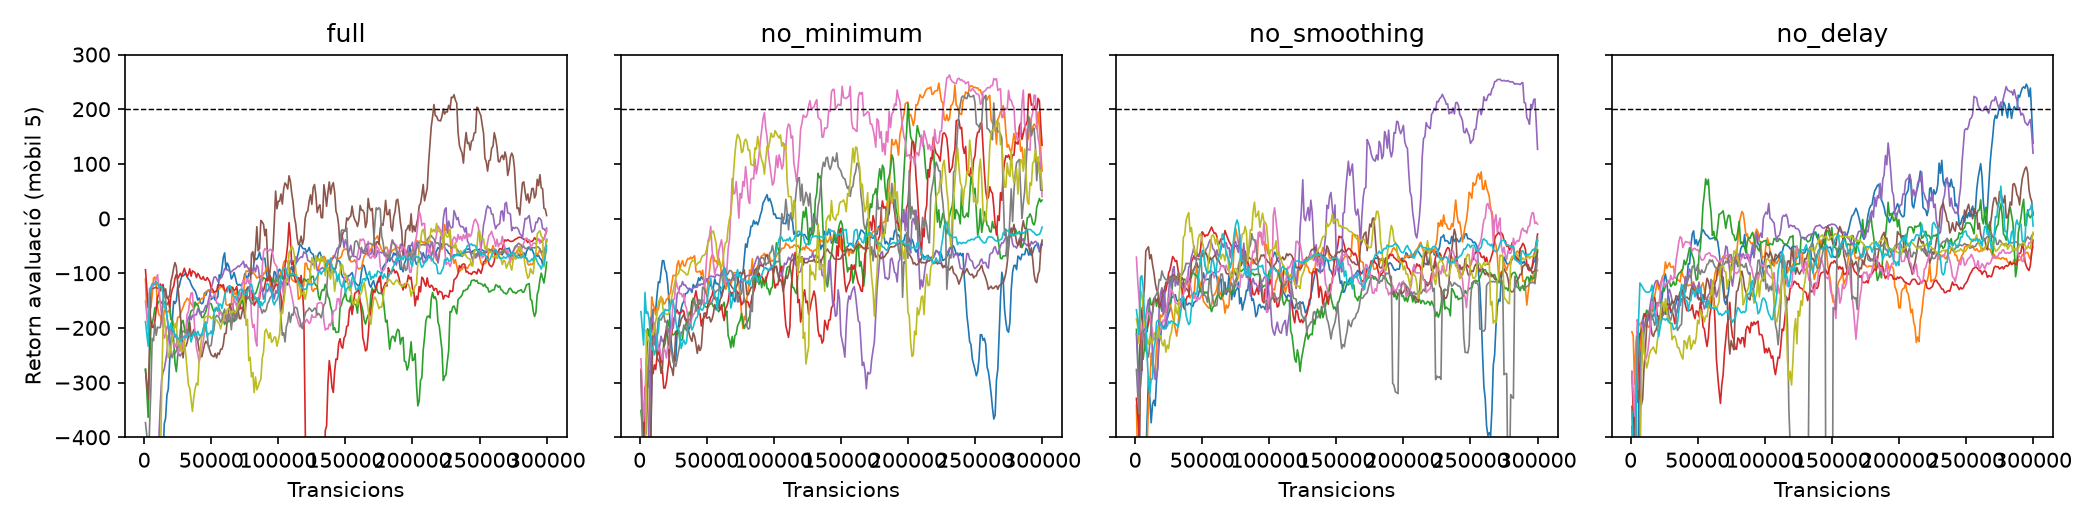
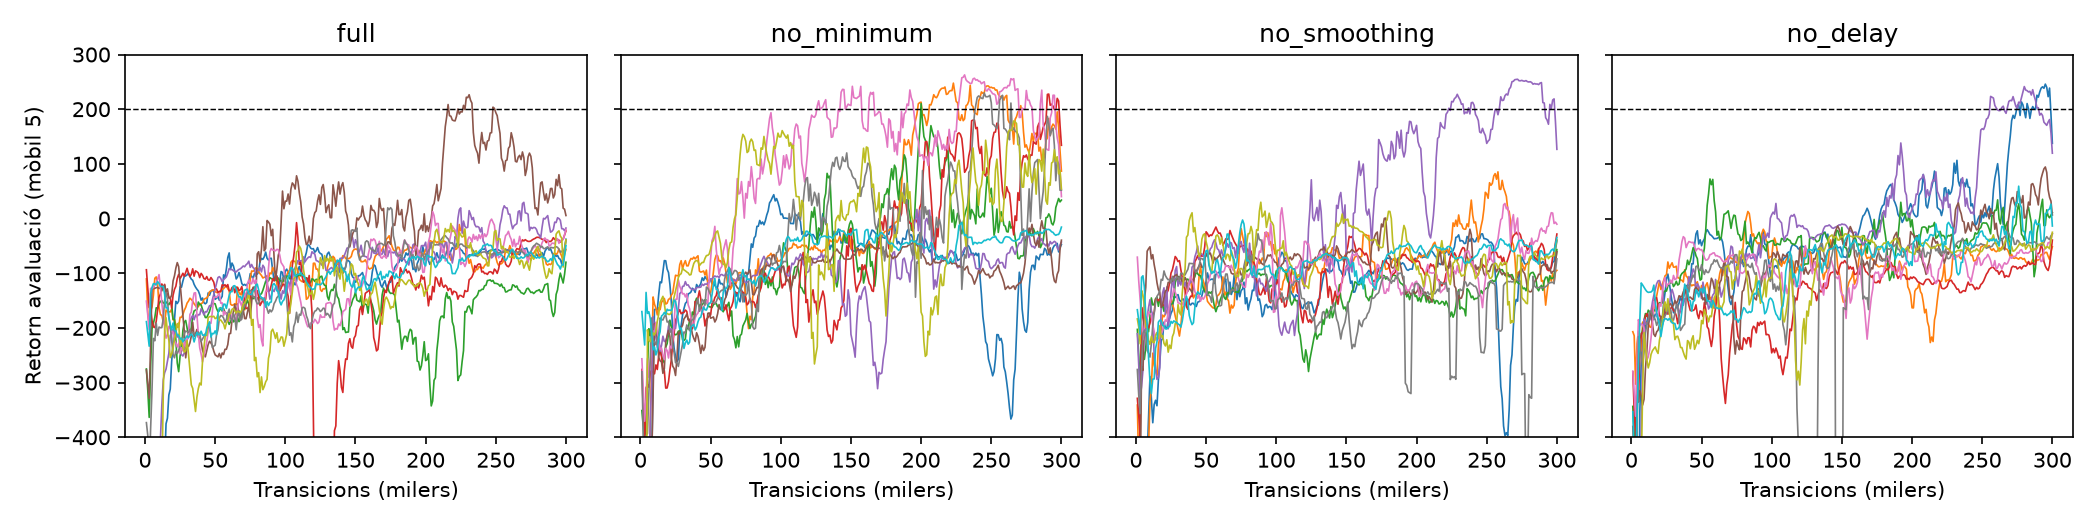
Analitza la prova de control i desa les xifres a summary.txt
Corregeix també les etiquetes de l'eix x de per_seed_curves.png.

diff --git a/lab7/analysis/supplementary.py b/lab7/analysis/supplementary.py
@@ -4,6 +4,9 @@ Complementa analysis.py amb: tests de permutació aparellats exactes (2^10 assig
 signe) amb correcció de Holm, resums robustos (mediana, IQM), taxa d'aterratges reeixits
 (retorn ≥ 200) i d'episodis truncats (planeig), corbes per llavor, biaix DDPG vs TD3
 (exploratori, llavor 0), relació biaix-retorn i comptatge de caigudes de rendiment.
+Si hi ha resultats de la prova de control fora de protocol (config.SANITY_CONFIGS), en fa
+la comparació aparellada amb TD3 complet a les mateixes llavors i en resumeix l'avaluació
+final de 100 episodis. Els estadístics que no són taules ni figures es desen a summary.txt.
 
 Ús (des de lab7/):  python -m analysis.supplementary --results results --out analysis/supplementary
 """
@@ -11,12 +14,17 @@ import argparse, json, csv, itertools
 from pathlib import Path
 import numpy as np
 import matplotlib; matplotlib.use("Agg")
+import matplotlib.ticker
 import matplotlib.pyplot as plt
 parser = argparse.ArgumentParser(description=__doc__, formatter_class=argparse.RawDescriptionHelpFormatter)
 parser.add_argument("--results", type=Path, default=Path("results"))
 parser.add_argument("--out", type=Path, default=Path("analysis/supplementary"))
 args = parser.parse_args()
 R, OUT = args.results, args.out; OUT.mkdir(parents=True, exist_ok=True)
+SUMMARY = []
+def report(*items):
+    """Mostra una línia i la guarda a summary.txt (xifres citables a l'informe)."""
+    line = " ".join(str(i) for i in items); print(line); SUMMARY.append(line)
 V = ["full","no_minimum","no_smoothing","no_delay"]
 def rd(p): return list(csv.DictReader(open(p, encoding="utf-8")))
 runs = {v:{int(d.name[5:]): rd(d/"evaluations.csv") for d in (R/v).glob("seed_*")} for v in V+["ddpg"]}
@@ -44,12 +52,12 @@ for met in ["last","auc","succ","hover"]:
         run=max(run,min(1,(m-rank)*res[i][4])); holm[i]=run
     for r,h in zip(res,holm): lines.append(f"{met},{r[0]},{r[1]:.3f},{r[2]:.3f},{r[3]},{r[4]:.4f},{h:.4f}")
 open(OUT/"paired_permutation_tests.csv","w").write("\n".join(lines)+"\n")
-print("\n".join(lines))
+report("\n".join(lines))
 lines=["variant,mean_last,median_last,iqm_last,mean_auc,iqm_auc,mean_success,mean_hover,seeds_majority_landing"]
 for v in V:
     a=lambda k: np.array([M[v][s][k] for s in range(10)])
     lines.append(f"{v},{a('last').mean():.1f},{np.median(a('last')):.1f},{iqm(a('last')):.1f},{a('auc').mean():.1f},{iqm(a('auc')):.1f},{a('succ').mean():.3f},{a('hover').mean():.3f},{int((a('succ')>=0.5).sum())}")
-open(OUT/"robust_summary.csv","w").write("\n".join(lines)+"\n"); print("\n".join(lines))
+open(OUT/"robust_summary.csv","w").write("\n".join(lines)+"\n"); report("\n".join(lines))
 # corbes de comportament: fracció d'episodis d'èxit i truncats al llarg de l'entrenament
 fig,axes=plt.subplots(1,2,figsize=(10,3.8))
 for v in V:
@@ -70,7 +78,8 @@ for ax,v in zip(axes,V):
     for s in range(10):
         rows=runs[v][s]; x=[float(r["transitions"]) for r in rows]; y=np.convolve([float(r["eval_mean_return"]) for r in rows],np.ones(5)/5,mode="same")
         ax.plot(x,y,lw=0.8)
-    ax.axhline(200,color="k",ls="--",lw=0.7); ax.set(title=v,xlabel="Transicions")
+    ax.axhline(200,color="k",ls="--",lw=0.7); ax.set(title=v,xlabel="Transicions (milers)")
+    ax.xaxis.set_major_formatter(matplotlib.ticker.FuncFormatter(lambda val, _: f"{val/1000:.0f}"))
 axes[0].set_ylim(-400,300); axes[0].set_ylabel("Retorn avaluació (mòbil 5)")
 fig.tight_layout(); fig.savefig(OUT/"per_seed_curves.png",dpi=150); plt.close(fig)
 # DDPG vs full llavor 0: biaix
@@ -87,10 +96,54 @@ for v in V:
     r=[M[v][s]["last"] for s in range(10)]; ax.scatter(bias[v],r,label=v,s=18); allb+=bias[v]; allr+=r
 ax.set(xlabel="Biaix final (Q − G)",ylabel="Retorn final (últimes 10)"); ax.legend(fontsize=8)
 fig.tight_layout(); fig.savefig(OUT/"bias_vs_return.png",dpi=150); plt.close(fig)
-rk=lambda a: np.argsort(np.argsort(a)); print("Spearman biaix-retorn (40 exec.):",np.corrcoef(rk(allb),rk(allr))[0,1])
-for v in V: print(v,"Spearman intra-variant:",round(np.corrcoef(rk(bias[v]),rk([M[v][s]["last"] for s in range(10)]))[0,1],2))
+rk=lambda a: np.argsort(np.argsort(a)); report("Spearman biaix-retorn (40 exec.):",np.corrcoef(rk(allb),rk(allr))[0,1])
+for v in V: report(v,"Spearman intra-variant:",round(np.corrcoef(rk(bias[v]),rk([M[v][s]["last"] for s in range(10)]))[0,1],2))
 # inestabilitat: caigudes > 200 entre avaluacions consecutives després de 50k
 for v in V:
     c=[int(np.sum(np.diff([float(r["eval_mean_return"]) for r in runs[v][s][50:]])<-200)) for s in range(10)]
     w=[float(json.load(open(R/v/f"seed_{s}"/"config.json"))["wall_time_s"]) for s in range(10)]
-    print(v,"caigudes>200:",sum(c),c," temps mitjà h:",round(np.mean(w)/3600,2))
+    report(v,"caigudes>200:",sum(c),c," temps mitjà h:",round(np.mean(w)/3600,2))
+
+# ---------------------------------------------------------------- prova de control (fora de protocol)
+SANITY = [name for name in ("td3_paper", "no_weight_decay") if (R/name).is_dir()]
+if SANITY:
+    seeds = sorted(int(d.name[5:]) for d in (R/SANITY[0]).glob("seed_*"))
+    def config(v, s): return json.load(open(R/v/f"seed_{s}"/"config.json", encoding="utf-8"))
+    def row(v, s):
+        rows = rd(R/v/f"seed_{s}"/"evaluations.csv")
+        out = {"config": v, "seed": s, **metrics(rows),
+               "bias": np.nanmean([float(r["bias_all"]) for r in rows[-10:]])}
+        fe = config(v, s).get("final_evaluation") or {}
+        out.update({f"final_{k}": fe.get(k, np.nan) for k in ("mean_return", "success_rate", "truncated_rate", "bias_all")})
+        return out
+    table = [row(v, s) for v in ["full", *SANITY] for s in seeds]
+    keys = list(table[0])
+    with open(OUT/"sanity_per_seed.csv", "w", newline="", encoding="utf-8") as stream:
+        w = csv.DictWriter(stream, fieldnames=keys); w.writeheader(); w.writerows(table)
+    by = {(r["config"], r["seed"]): r for r in table}
+    lines = ["config,metric,mean_full,mean_config,mean_diff,wins_of_n,n,perm_p"]
+    for v in SANITY:
+        for met in ["last", "auc", "succ", "hover", "bias"]:   # full no té avaluació final
+            a = np.array([by[(v, s)][met] for s in seeds], float)
+            f = np.array([by[("full", s)][met] for s in seeds], float)
+            d = a - f
+            lines.append(f"{v},{met},{np.nanmean(f):.3f},{np.nanmean(a):.3f},{np.nanmean(d):.3f},"
+                         f"{int(np.sum(d > 0))},{len(seeds)},{perm_p(d) if not np.isnan(d).any() else np.nan:.4f}")
+    open(OUT/"sanity_paired_vs_full.csv", "w").write("\n".join(lines)+"\n")
+    report(f"Prova de control (llavors {seeds}); amb n={len(seeds)} el p exacte mínim és {2/2**len(seeds):.4f}")
+    report("\n".join(lines))
+    # corbes: retorn i biaix mitjans a les mateixes llavors
+    fig, axes = plt.subplots(1, 2, figsize=(10, 3.8))
+    for v in ["full", *SANITY]:
+        for ax, col in zip(axes, ["eval_mean_return", "bias_all"]):
+            Y = [[float(r[col]) for r in rd(R/v/f"seed_{s}"/"evaluations.csv")] for s in seeds]
+            x = [float(r["transitions"]) for r in rd(R/v/f"seed_{seeds[0]}"/"evaluations.csv")]
+            ax.plot(x, np.convolve(np.nanmean(Y, 0), np.ones(5)/5, mode="same"), label=v)
+    axes[0].axhline(200, color="k", ls="--", lw=0.7)
+    axes[0].set(xlabel="Transicions", ylabel="Retorn avaluació (mitjana, mòbil 5)",
+                title=f"Prova de control (llavors {seeds[0]}–{seeds[-1]})")
+    axes[1].axhline(0, color="k", lw=0.7)
+    axes[1].set(xlabel="Transicions", ylabel="Q(s,μ(s)) − G", ylim=(-60, 120), title="Biaix d'estimació")
+    axes[0].legend(fontsize=8); fig.tight_layout(); fig.savefig(OUT/"sanity_curves.png", dpi=150); plt.close(fig)
+
+(OUT/"summary.txt").write_text("\n".join(SUMMARY)+"\n", encoding="utf-8")
